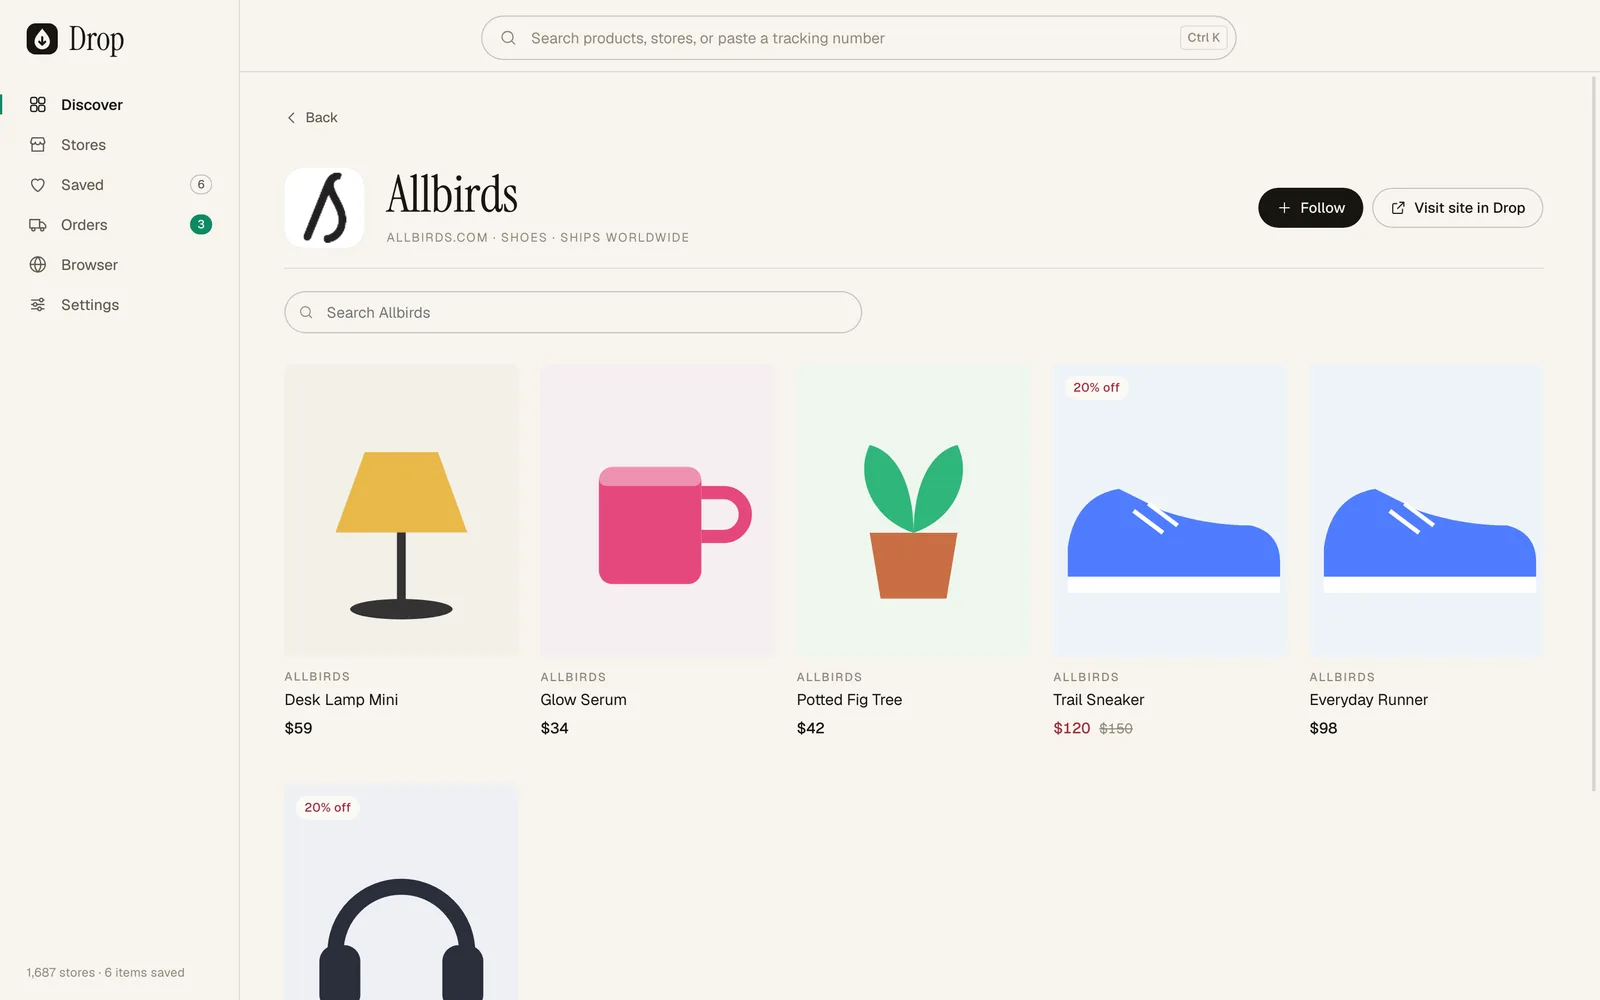
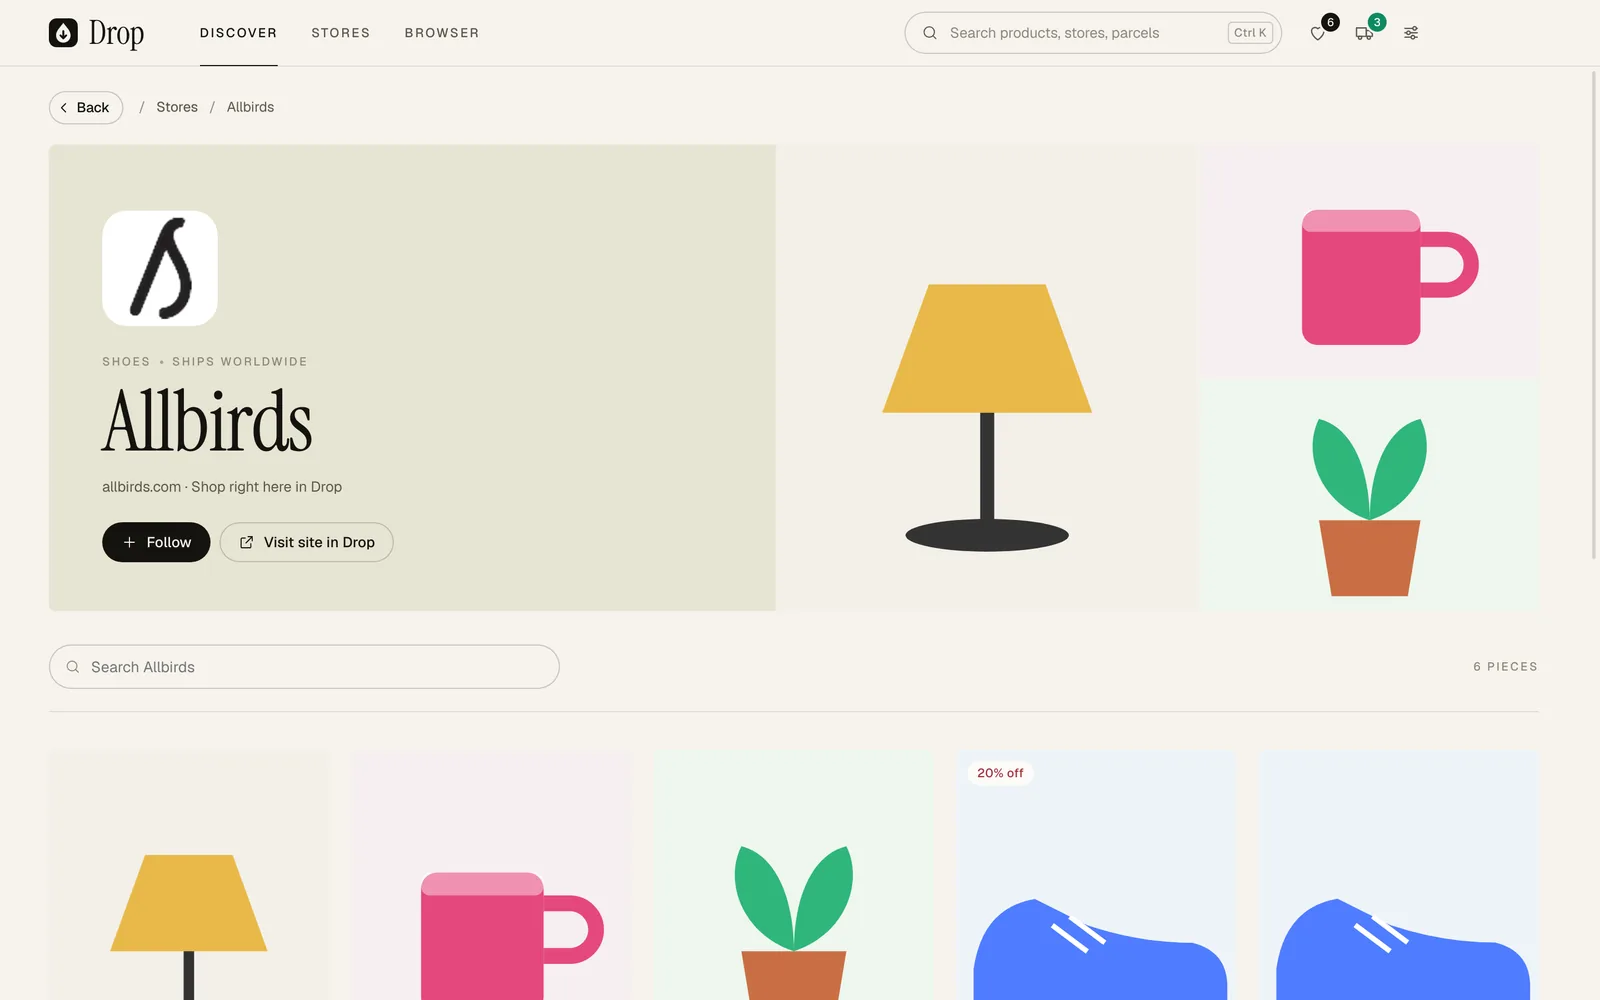
Site: Drop 1.6, new screenshots and notes
Claude-Session: https://claude.ai/code/session_016io9pVZ6dJ8VMHbPwqrPds

diff --git a/index.html b/index.html
@@ -1116,7 +1116,7 @@ footer a:hover{color:#fff}
       <a class="btn btn-dr" href="https://github.com/mabdulhadi0208-afk/mabdulhadi0208-afk-cart/releases/latest/download/Drop-mac-arm64.dmg"><svg viewBox="0 0 24 24" fill="currentColor"><path d="M16.4 12.6c0-2.4 2-3.6 2.1-3.6-1.1-1.7-2.9-1.9-3.5-1.9-1.5-.2-2.9.9-3.7.9-.8 0-1.9-.9-3.2-.8-1.6 0-3.1 1-4 2.4-1.7 3-.4 7.4 1.2 9.8.8 1.2 1.8 2.5 3 2.4 1.2 0 1.7-.8 3.1-.8 1.5 0 1.9.8 3.2.8 1.3 0 2.2-1.2 3-2.4.9-1.4 1.3-2.7 1.3-2.8 0 0-2.5-1-2.5-4zM14 5.4c.7-.8 1.1-1.9 1-3-1 0-2.1.7-2.8 1.5-.6.7-1.2 1.8-1 2.9 1.1.1 2.1-.6 2.8-1.4z"/></svg><span class="t">Download for Mac<small>Apple Silicon</small></span></a>
       <a class="btn btn-g" href="https://github.com/mabdulhadi0208-afk/mabdulhadi0208-afk-cart/releases/latest/download/Drop-win-x64.exe"><span class="t">Windows<small>10 and 11</small></span></a>
     </div>
-    <p class="subdl">For Apple Silicon Macs and Windows. Drop 1.5 updates itself and shows What's new after each update. New in 1.5: every price in the currency you choose, converted with daily rates, and a finer, quieter look with serif headings, warm paper and deep ink.</p>
+    <p class="subdl">For Apple Silicon Macs and Windows. Drop 1.6 updates itself and shows What's new after each update. New in 1.6: a whole new Drop. Discover reads like a magazine, store and product pages open on big banners and galleries, every price shows in your currency, and every button fills with colour that flows in under your pointer.</p>
     <div class="stage wd">
       <div class="frame"><img src="shots/drop-home-dark.webp" alt="Drop Discover in dark mode: a feed of real products from stores" width="1600" height="1000"></div>
     </div>
